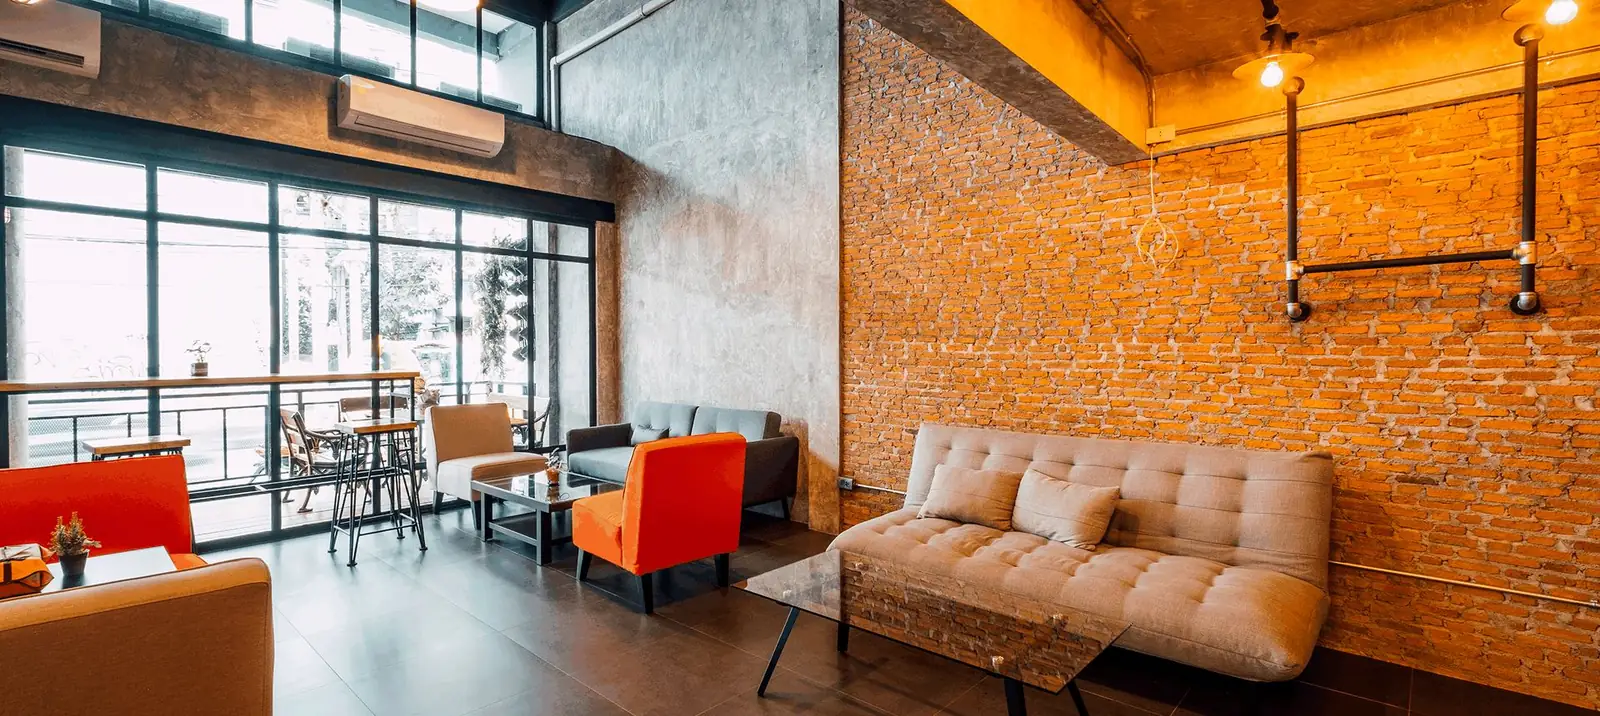
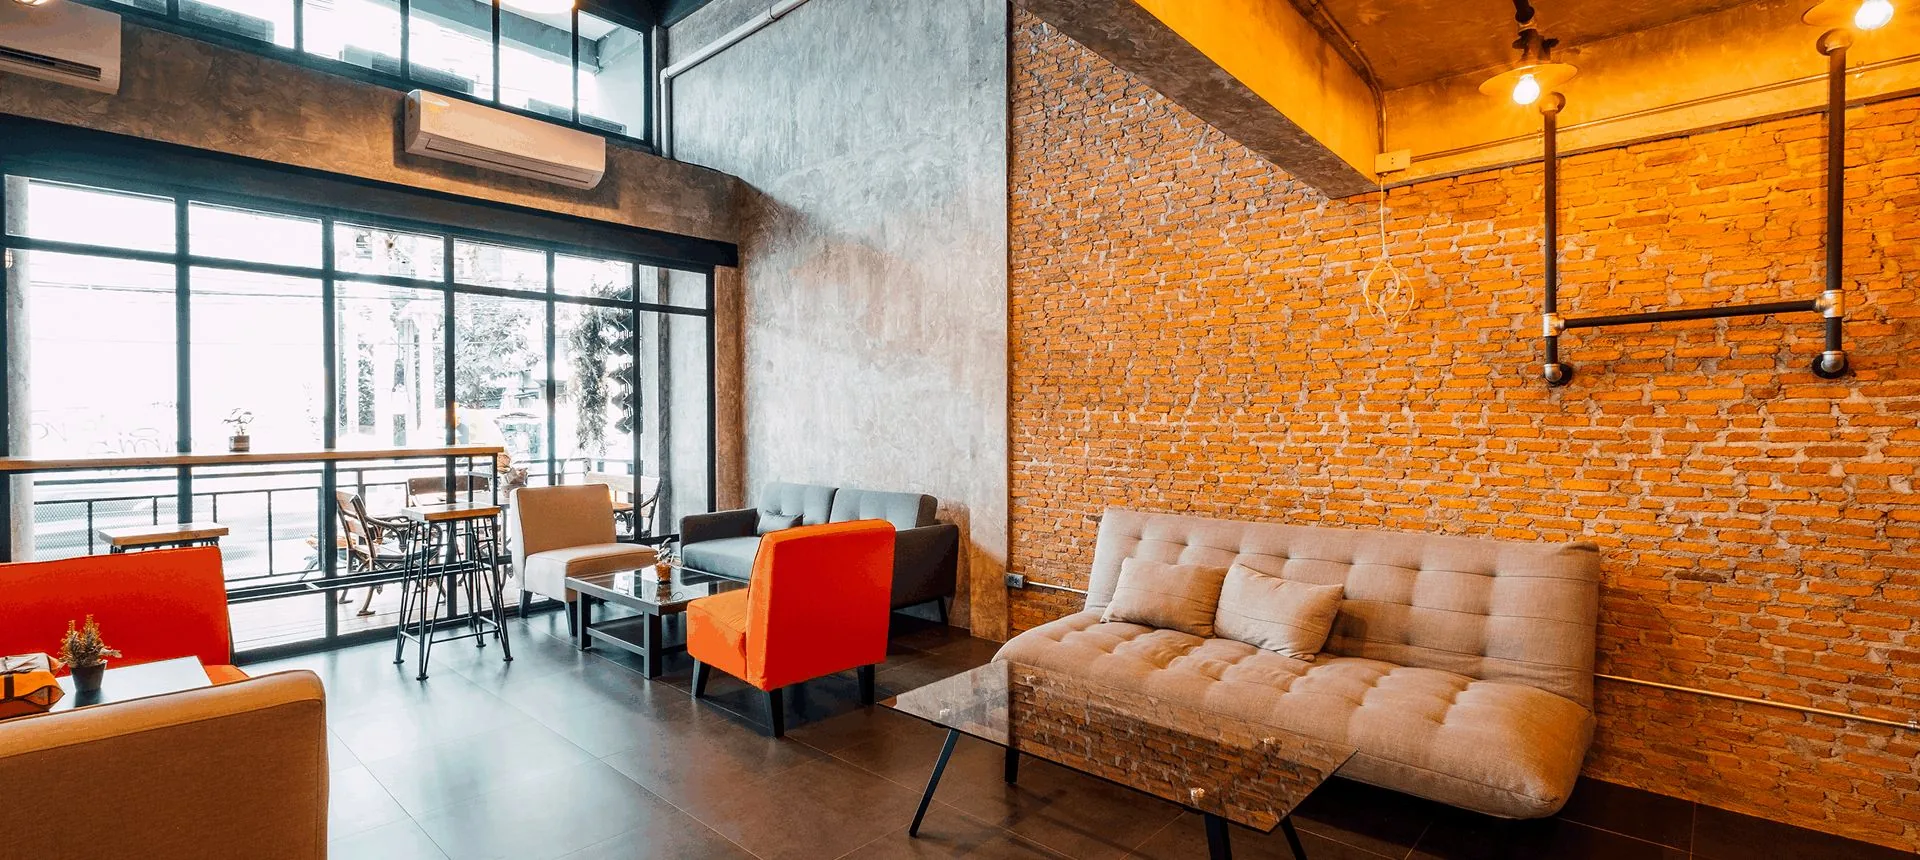
site fixes

Changed region(s): [[0.1875, 0.6145, 0.25, 0.7067]]

diff --git a/app/page.js b/app/page.js
@@ -51,7 +51,7 @@ const spacesCarousel = [
     title: "Premium Private Cabins",
     href: "/private-cabins",
     desc: "Secure, lockable cabins tailored for startups and businesses requiring high privacy and dedicated bandwidth.",
-    image: "/assets/Private-Spaces_dfb4e03e.png",
+    image: "/assets/spaces-private-cabins.webp",
     alt: "Private office spaces at NeoHub Lucknow",
     info: [["Capacity", "4–15 seats"], ["Status", "Available"], ["Access", "24/7"], ["Type", "Private Cabin"], ["WiFi", "Gigabit"], ["From", "₹20,000/mo"]],
   },
@@ -59,7 +59,7 @@ const spacesCarousel = [
     title: "Flexible Hot Desking",
     href: "/hot-desk",
     desc: "On-demand workspace access by the day or month, giving you the freedom to work from any open seat in the hub.",
-    image: "/assets/Hot-Desking_ade72a77.png",
+    image: "/assets/spaces-hot-desking.webp",
     alt: "Hot desking coworking tables at NeoHub Gomti Nagar",
     info: [["Pass", "Daily / Monthly"], ["Status", "Available"], ["Access", "24/7"], ["Type", "Hot Desk"], ["WiFi", "Gigabit"], ["From", "Enquire"]],
   },
@@ -67,7 +67,7 @@ const spacesCarousel = [
     title: "Event & Workshop Spaces",
     href: "/contact",
     desc: "Versatile event layouts with AV systems and projector screens to host meetups, workshops, and company announcements.",
-    image: "/assets/Wellness-Campaigns_180e8285.png",
+    image: "/assets/spaces-events.webp",
     alt: "Coworking office break rooms and wellness amenities",
     info: [["Layout", "Flexible"], ["Status", "On request"], ["AV", "Included"], ["Type", "Event Space"], ["WiFi", "Gigabit"], ["Booking", "Enquire"]],
   },
@@ -75,7 +75,7 @@ const spacesCarousel = [
     title: "Private Meeting Cabins",
     href: "/meeting-rooms",
     desc: "Acoustic-insulated compact cabins designed for focused team discussions, video calls, or executive interviews.",
-    image: "/assets/Debate-Benefits_fe3d6cf8.png",
+    image: "/assets/spaces-meeting-cabins.webp",
     alt: "Startup team workspaces in Lucknow",
     info: [["Seats", "4–8"], ["Status", "Available"], ["Access", "Hourly"], ["Type", "Meeting Cabin"], ["WiFi", "Gigabit"], ["Booking", "Enquire"]],
   },
@@ -83,7 +83,7 @@ const spacesCarousel = [
     title: "Dedicated Workstations",
     href: "/dedicated-desk",
     desc: "Your own reserved desk in a shared environment, complete with lockable drawers and premium ergonomic chairs.",
-    image: "/assets/Customized-Desks_f656af2d.png",
+    image: "/assets/spaces-workstations.webp",
     alt: "Dedicated desks and ergonomic workstations",
     info: [["Desk", "Reserved"], ["Status", "Available"], ["Access", "24/7"], ["Type", "Workstation"], ["WiFi", "Gigabit"], ["From", "₹5,500/mo"]],
   },
@@ -91,7 +91,7 @@ const spacesCarousel = [
     title: "State-of-the-Art Conference Rooms",
     href: "/conference-hall",
     desc: "High-tech meeting rooms equipped with smart TVs, video conferencing gear, writeable boards, and tea/coffee services.",
-    image: "/assets/Conference-Rooms_feaacc5e.png",
+    image: "/assets/spaces-conference.webp",
     alt: "High-tech corporate meeting rooms",
     info: [["Seats", "8–20"], ["Status", "Available"], ["AV", "HD Projector"], ["Type", "Conference"], ["WiFi", "Gigabit"], ["From", "₹500/hr"]],
   },
@@ -99,7 +99,7 @@ const spacesCarousel = [
     title: "Shared Coworking Desks",
     href: "/hot-desk",
     desc: "Flexible, plug-and-play seating options in our open-plan area, perfect for freelancers and digital nomads.",
-    image: "/assets/Co-Working-Areas_81ff66f9.png",
+    image: "/assets/spaces-coworking.webp",
     alt: "Shared coworking areas and hot desks",
     info: [["Seating", "Open plan"], ["Status", "Available"], ["Access", "24/7"], ["Type", "Coworking"], ["WiFi", "Gigabit"], ["From", "Enquire"]],
   },
@@ -107,7 +107,7 @@ const spacesCarousel = [
     title: "Enterprise Office Suites",
     href: "/private-cabins",
     desc: "Fully furnished, private suites configured for team sizes of 5 to 50+ members with custom server and networking options.",
-    image: "/assets/B2B-Opportunities_96b28b64.png",
+    image: "/assets/spaces-enterprise.webp",
     alt: "Business opportunities and networking lounges",
     info: [["Teams", "5–50+"], ["Status", "Available"], ["Access", "24/7"], ["Type", "Enterprise"], ["WiFi", "Dedicated"], ["From", "Custom"]],
   },

diff --git a/app/spaces/page.js b/app/spaces/page.js
@@ -15,49 +15,49 @@ const spacesData = [
   {
     title: "Enterprise Office Suites",
     href: "/private-cabins",
-    image: "/assets/B2B-Opportunities_96b28b64.webp",
+    image: "/assets/spaces-enterprise.webp",
     description: "Fully furnished, private suites configured for team sizes of 5 to 50+ members with custom server and networking options.",
   },
   {
     title: "Shared Coworking Desks",
     href: "/hot-desk",
-    image: "/assets/Co-Working-Areas_81ff66f9.webp",
+    image: "/assets/spaces-coworking.webp",
     description: "Flexible, plug-and-play seating options in our open-plan area, perfect for freelancers and digital nomads.",
   },
   {
     title: "State-of-the-Art Conference Rooms",
     href: "/conference-hall",
-    image: "/assets/Conference-Rooms_feaacc5e.webp",
+    image: "/assets/spaces-conference.webp",
     description: "High-tech meeting rooms equipped with smart TVs, video conferencing gear, writeable boards, and tea/coffee services.",
   },
   {
     title: "Dedicated Workstations",
     href: "/dedicated-desk",
-    image: "/assets/Customized-Desks_f656af2d.webp",
+    image: "/assets/spaces-workstations.webp",
     description: "Your own reserved desk in a shared environment, complete with lockable drawers and premium ergonomic chairs.",
   },
   {
     title: "Private Meeting Cabins",
     href: "/meeting-rooms",
-    image: "/assets/Debate-Benefits_fe3d6cf8.webp",
+    image: "/assets/spaces-meeting-cabins.webp",
     description: "Acoustic-insulated compact cabins designed for focused team discussions, video calls, or executive interviews.",
   },
   {
     title: "Event & Workshop Spaces",
     href: "/contact",
-    image: "/assets/Wellness-Campaigns_180e8285.webp",
+    image: "/assets/spaces-events.webp",
     description: "Versatile event layouts with AV systems and projector screens to host meetups, workshops, and company announcements.",
   },
   {
     title: "Flexible Hot Desking",
     href: "/hot-desk",
-    image: "/assets/Hot-Desking_ade72a77.webp",
+    image: "/assets/spaces-hot-desking.webp",
     description: "On-demand workspace access by the day or month, giving you the freedom to work from any open seat in the hub.",
   },
   {
     title: "Premium Private Cabins",
     href: "/private-cabins",
-    image: "/assets/Private-Spaces_dfb4e03e.webp",
+    image: "/assets/spaces-private-cabins.webp",
     description: "Secure, lockable cabins tailored for startups and businesses requiring high privacy and dedicated bandwidth.",
   },
 ];

diff --git a/lib/siteData.js b/lib/siteData.js
@@ -271,25 +271,25 @@ export const spacePreviews = [
   {
     title: "Premium Private Cabins",
     href: "/private-cabins",
-    image: "/assets/Private-Spaces_dfb4e03e.webp",
+    image: "/assets/spaces-private-cabins.webp",
     meta: "4–15 seats · Lockable",
   },
   {
     title: "Dedicated Workstations",
     href: "/dedicated-desk",
-    image: "/assets/Customized-Desks_f656af2d.webp",
+    image: "/assets/spaces-workstations.webp",
     meta: "Fixed desk · Storage included",
   },
   {
     title: "Flexible Hot Desking",
     href: "/hot-desk",
-    image: "/assets/Hot-Desking_ade72a77.webp",
+    image: "/assets/spaces-hot-desking.webp",
     meta: "Daily or monthly passes",
   },
   {
     title: "Conference Rooms",
     href: "/meeting-rooms",
-    image: "/assets/Conference-Rooms_feaacc5e.webp",
+    image: "/assets/spaces-conference.webp",
     meta: "AV setup · Hourly booking",
   },
 ];
